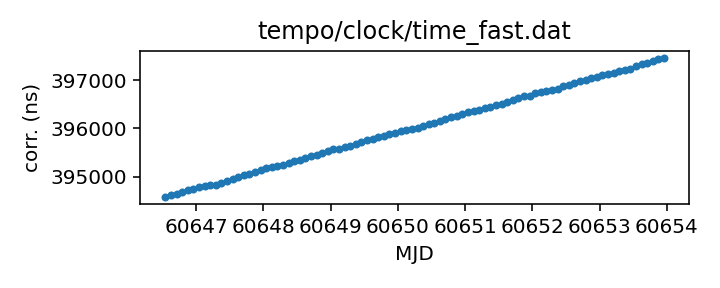
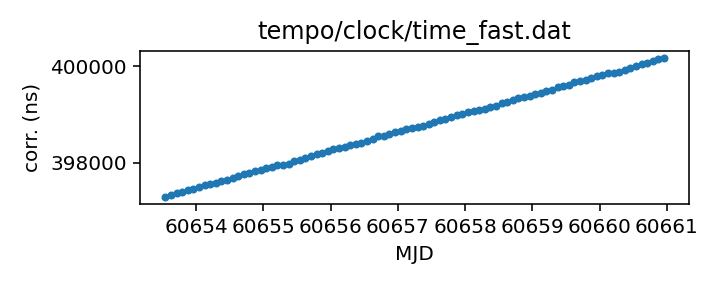
Routine gh-pages update from Github action Wed Dec 18 20:39:57 UTC 2024

diff --git a/status.md b/status.md
@@ -13,18 +13,18 @@ name of each clock file links to a page with more details.
 
 | Name | File | Corrections start | Corrections end | Last check date | Last check result 
 |:--- |:--- | --- | --- | --- |:--- 
-| [GPS to UTC](T2runtime/clock/gps2utc.clk.html) | `T2runtime/clock/gps2utc.clk` | 1993-01-01 MJD 48988.0 | 2024-11-30 MJD 60644.0 | 2024-12-17 | Unchanged 
-| [GPS to UTC (Combined Clock)](T2runtime/clock/gps2utc_cc.clk.html) | `T2runtime/clock/gps2utc_cc.clk` | 1993-01-01 MJD 48988.0 | 2024-11-30 MJD 60644.0 | 2024-12-17 | Unchanged 
-| [GPS to UTC (Corrected)](T2runtime/clock/gps2utc_c0p.clk.html) | `T2runtime/clock/gps2utc_c0p.clk` | 2010-12-29 MJD 55559.0 | 2024-11-30 MJD 60644.0 | 2024-12-17 | Unchanged 
-| [GBT](tempo/clock/time_gbt.dat.html) | `tempo/clock/time_gbt.dat` | 2000-12-31 MJD 51909.5 | 2024-05-18 MJD 60448.5 | 2024-12-17 | **Validation failed** 
+| [GPS to UTC](T2runtime/clock/gps2utc.clk.html) | `T2runtime/clock/gps2utc.clk` | 1993-01-01 MJD 48988.0 | 2024-11-30 MJD 60644.0 | 2024-12-18 | Unchanged 
+| [GPS to UTC (Combined Clock)](T2runtime/clock/gps2utc_cc.clk.html) | `T2runtime/clock/gps2utc_cc.clk` | 1993-01-01 MJD 48988.0 | 2024-11-30 MJD 60644.0 | 2024-12-18 | Unchanged 
+| [GPS to UTC (Corrected)](T2runtime/clock/gps2utc_c0p.clk.html) | `T2runtime/clock/gps2utc_c0p.clk` | 2010-12-29 MJD 55559.0 | 2024-11-30 MJD 60644.0 | 2024-12-18 | Unchanged 
+| [GBT](tempo/clock/time_gbt.dat.html) | `tempo/clock/time_gbt.dat` | 2000-12-31 MJD 51909.5 | 2024-05-18 MJD 60448.5 | 2024-12-18 | **Validation failed** 
 | [GBT (TEMPO2 converted from TEMPO)](T2runtime/clock/gbt2gps.clk.html) | `T2runtime/clock/gbt2gps.clk` | 2000-12-31 MJD 51909.5 | 2024-05-18 MJD 60448.5 | 2024-05-19 | Updated 
-| [Jodrell Bank](T2runtime/clock/jb2gps.clk.html) | `T2runtime/clock/jb2gps.clk` | 2006-10-13 MJD 54021.4 | 2024-11-07 MJD 60621.0 | 2024-12-11 | Unchanged 
-| [Jodrell Bank Roach](T2runtime/clock/jbroach2jb.clk.html) | `T2runtime/clock/jbroach2jb.clk` | 2006-10-13 MJD 54021.4 | 2018-03-20 MJD 58197.6 | 2024-12-11 | Unchanged 
-| [Jodrell Bank DFB](T2runtime/clock/jbdfb2jb.clk.html) | `T2runtime/clock/jbdfb2jb.clk` | 2006-10-13 MJD 54021.4 | 2017-05-11 MJD 57884.0 | 2024-12-11 | Unchanged 
-| [Meerkat (observatory)](T2runtime/clock/mk2utc_observatory.clk.html) | `T2runtime/clock/mk2utc_observatory.clk` | 2019-01-01 MJD 58484.0 | 2024-04-24 MJD 60425.0 | 2024-12-11 | **Failed to download** 
-| [Leap seconds](tempo/clock/leap.sec.html) | `tempo/clock/leap.sec` | 1972-07-01 MJD 41499.0 | 2017-01-01 MJD 57754.0 | 2024-12-17 | Unchanged 
-| [UT1 table](tempo/clock/ut1.dat.html) | `tempo/clock/ut1.dat` | 1973-01-02 MJD 41684.0 | 2025-12-20 MJD 61029.0 | 2024-12-17 | Unchanged 
-| [UT1 table](T2runtime/clock/ut1.dat.html) | `T2runtime/clock/ut1.dat` | 1973-01-02 MJD 41684.0 | 2025-12-20 MJD 61029.0 | 2024-12-17 | Unchanged 
+| [Jodrell Bank](T2runtime/clock/jb2gps.clk.html) | `T2runtime/clock/jb2gps.clk` | 2006-10-13 MJD 54021.4 | 2024-11-07 MJD 60621.0 | 2024-12-18 | Unchanged 
+| [Jodrell Bank Roach](T2runtime/clock/jbroach2jb.clk.html) | `T2runtime/clock/jbroach2jb.clk` | 2006-10-13 MJD 54021.4 | 2018-03-20 MJD 58197.6 | 2024-12-18 | Unchanged 
+| [Jodrell Bank DFB](T2runtime/clock/jbdfb2jb.clk.html) | `T2runtime/clock/jbdfb2jb.clk` | 2006-10-13 MJD 54021.4 | 2017-05-11 MJD 57884.0 | 2024-12-18 | Unchanged 
+| [Meerkat (observatory)](T2runtime/clock/mk2utc_observatory.clk.html) | `T2runtime/clock/mk2utc_observatory.clk` | 2019-01-01 MJD 58484.0 | 2024-04-24 MJD 60425.0 | 2024-12-18 | **Failed to download** 
+| [Leap seconds](tempo/clock/leap.sec.html) | `tempo/clock/leap.sec` | 1972-07-01 MJD 41499.0 | 2017-01-01 MJD 57754.0 | 2024-12-18 | Unchanged 
+| [UT1 table](tempo/clock/ut1.dat.html) | `tempo/clock/ut1.dat` | 1973-01-02 MJD 41684.0 | 2025-12-20 MJD 61029.0 | 2024-12-18 | Unchanged 
+| [UT1 table](T2runtime/clock/ut1.dat.html) | `T2runtime/clock/ut1.dat` | 1973-01-02 MJD 41684.0 | 2025-12-20 MJD 61029.0 | 2024-12-18 | Unchanged 
 
 
 
@@ -67,26 +67,26 @@ name of each clock file links to a page with more details.
 
 | Name | File | Corrections start | Corrections end | Last check date | Last check result 
 |:--- |:--- | --- | --- | --- |:--- 
-| [GPS to UTC (TEMPO2)](T2runtime/clock/gps2utc_tempo2.clk.html) | `T2runtime/clock/gps2utc_tempo2.clk` | 1996-03-27 MJD 50169.0 | 2022-10-27 MJD 59879.0 | 2024-12-11 | **Failed to download** 
-| [GBT (TEMPO2)](T2runtime/clock/gbt2gps_tempo2.clk.html) | `T2runtime/clock/gbt2gps_tempo2.clk` | 2000-12-31 MJD 51909.5 | 2020-02-25 MJD 58904.5 | 2024-12-11 | Unchanged 
-| [Jodrell Bank (TEMPO)](tempo/clock/time_jb.dat.html) | `tempo/clock/time_jb.dat` | 2006-10-13 MJD 54021.4 | 2019-05-13 MJD 58616.2 | 2024-12-11 | Unchanged 
-| [VLA](tempo/clock/time_vla.dat.html) | `tempo/clock/time_vla.dat` | 1990-10-27 MJD 48191.2 | 2021-03-07 MJD 59280.5 | 2024-12-11 | Unchanged 
-| [VLA (TEMPO2)](T2runtime/clock/vla2gps.clk.html) | `T2runtime/clock/vla2gps.clk` | 2015-02-01 MJD 57054.6 | 2021-03-07 MJD 59280.5 | 2024-12-11 | Unchanged 
-| [VLA to NIST](T2runtime/clock/vla2nist.clk.html) | `T2runtime/clock/vla2nist.clk` | 1990-10-27 MJD 48191.2 | 1993-11-13 MJD 49304.0 | 2024-12-11 | Unchanged 
-| [FAST](tempo/clock/time_fast.dat.html) | `tempo/clock/time_fast.dat` | 2017-07-27 MJD 57961.0 | 2024-12-09 MJD 60654.0 | 2024-12-11 | Updated 
-| [WSRT](T2runtime/clock/wsrt2gps.clk.html) | `T2runtime/clock/wsrt2gps.clk` | 1999-01-01 MJD 51179.5 | 2015-06-29 MJD 57202.1 | 2024-12-11 | Unchanged 
-| [WSRT (TEMPO)](tempo/clock/time_wsrt.dat.html) | `tempo/clock/time_wsrt.dat` | 1987-07-24 MJD 47000.0 | 2007-12-24 MJD 54458.0 | 2024-12-11 | **Validation failed** 
-| [Parkes](T2runtime/clock/pks2gps.clk.html) | `T2runtime/clock/pks2gps.clk` | 1858-11-17 MJD 0.0 | 2024-11-30 MJD 60644.1 | 2024-12-11 | Updated 
-| [Parkes (TEMPO)](tempo/clock/time_pks.dat.html) | `tempo/clock/time_pks.dat` | 1979-05-07 MJD 44000.0 | 2011-07-03 MJD 55745.8 | 2024-12-11 | **Validation failed** 
-| [SRT](T2runtime/clock/srt2gps.clk.html) | `T2runtime/clock/srt2gps.clk` | 2013-03-20 MJD 56371.0 | 2019-12-11 MJD 58828.0 | 2024-12-11 | Unchanged 
-| [Effelsberg](T2runtime/clock/eff2gps.clk.html) | `T2runtime/clock/eff2gps.clk` | 1993-11-29 MJD 49320.0 | 2015-06-22 MJD 57195.5 | 2024-12-11 | Unchanged 
-| [Effelsberg Asterix/PSRix](T2runtime/clock/effix2gps.clk.html) | `T2runtime/clock/effix2gps.clk` | 2011-01-01 MJD 55562.5 | 2021-03-21 MJD 59294.5 | 2024-12-11 | Unchanged 
-| [LEAP](T2runtime/clock/leap2effix.clk.html) | `T2runtime/clock/leap2effix.clk` | 2012-10-29 MJD 56230.0 | 2014-03-04 MJD 56720.0 | 2024-12-11 | Unchanged 
-| [NUPPI](tempo/clock/time_nuppi.dat.html) | `tempo/clock/time_nuppi.dat` | 2005-03-07 MJD 53436.0 | 2015-11-08 MJD 57334.6 | 2024-12-11 | Unchanged 
-| [Meerkat (TEMPO2)](T2runtime/clock/mk2utc.clk.html) | `T2runtime/clock/mk2utc.clk` | 2019-01-01 MJD 58484.0 | 2024-09-23 MJD 60576.9 | 2024-12-11 | Unchanged 
-| [MOST](T2runtime/clock/mo2gps.clk.html) | `T2runtime/clock/mo2gps.clk` | 2003-12-27 MJD 53000.0 | 2018-09-06 MJD 58367.0 | 2024-12-11 | Unchanged 
-| [Nancay to obspm](T2runtime/clock/ncyobs2obspm.clk.html) | `T2runtime/clock/ncyobs2obspm.clk` | 1988-05-18 MJD 47299.6 | 2023-10-27 MJD 60244.0 | 2024-12-11 | Unchanged 
-| [obspm](T2runtime/clock/obspm2gps.clk.html) | `T2runtime/clock/obspm2gps.clk` | 2003-12-01 MJD 52974.0 | 2023-10-27 MJD 60244.0 | 2024-12-11 | Unchanged 
+| [GPS to UTC (TEMPO2)](T2runtime/clock/gps2utc_tempo2.clk.html) | `T2runtime/clock/gps2utc_tempo2.clk` | 1996-03-27 MJD 50169.0 | 2022-10-27 MJD 59879.0 | 2024-12-18 | **Failed to download** 
+| [GBT (TEMPO2)](T2runtime/clock/gbt2gps_tempo2.clk.html) | `T2runtime/clock/gbt2gps_tempo2.clk` | 2000-12-31 MJD 51909.5 | 2020-02-25 MJD 58904.5 | 2024-12-18 | Unchanged 
+| [Jodrell Bank (TEMPO)](tempo/clock/time_jb.dat.html) | `tempo/clock/time_jb.dat` | 2006-10-13 MJD 54021.4 | 2019-05-13 MJD 58616.2 | 2024-12-18 | Unchanged 
+| [VLA](tempo/clock/time_vla.dat.html) | `tempo/clock/time_vla.dat` | 1990-10-27 MJD 48191.2 | 2021-03-07 MJD 59280.5 | 2024-12-18 | Unchanged 
+| [VLA (TEMPO2)](T2runtime/clock/vla2gps.clk.html) | `T2runtime/clock/vla2gps.clk` | 2015-02-01 MJD 57054.6 | 2021-03-07 MJD 59280.5 | 2024-12-18 | Unchanged 
+| [VLA to NIST](T2runtime/clock/vla2nist.clk.html) | `T2runtime/clock/vla2nist.clk` | 1990-10-27 MJD 48191.2 | 1993-11-13 MJD 49304.0 | 2024-12-18 | Unchanged 
+| [FAST](tempo/clock/time_fast.dat.html) | `tempo/clock/time_fast.dat` | 2017-07-27 MJD 57961.0 | 2024-12-16 MJD 60661.0 | 2024-12-18 | Updated 
+| [WSRT](T2runtime/clock/wsrt2gps.clk.html) | `T2runtime/clock/wsrt2gps.clk` | 1999-01-01 MJD 51179.5 | 2015-06-29 MJD 57202.1 | 2024-12-18 | Unchanged 
+| [WSRT (TEMPO)](tempo/clock/time_wsrt.dat.html) | `tempo/clock/time_wsrt.dat` | 1987-07-24 MJD 47000.0 | 2007-12-24 MJD 54458.0 | 2024-12-18 | **Validation failed** 
+| [Parkes](T2runtime/clock/pks2gps.clk.html) | `T2runtime/clock/pks2gps.clk` | 1858-11-17 MJD 0.0 | 2024-11-30 MJD 60644.1 | 2024-12-18 | Unchanged 
+| [Parkes (TEMPO)](tempo/clock/time_pks.dat.html) | `tempo/clock/time_pks.dat` | 1979-05-07 MJD 44000.0 | 2011-07-03 MJD 55745.8 | 2024-12-18 | **Validation failed** 
+| [SRT](T2runtime/clock/srt2gps.clk.html) | `T2runtime/clock/srt2gps.clk` | 2013-03-20 MJD 56371.0 | 2019-12-11 MJD 58828.0 | 2024-12-18 | Unchanged 
+| [Effelsberg](T2runtime/clock/eff2gps.clk.html) | `T2runtime/clock/eff2gps.clk` | 1993-11-29 MJD 49320.0 | 2015-06-22 MJD 57195.5 | 2024-12-18 | Unchanged 
+| [Effelsberg Asterix/PSRix](T2runtime/clock/effix2gps.clk.html) | `T2runtime/clock/effix2gps.clk` | 2011-01-01 MJD 55562.5 | 2021-03-21 MJD 59294.5 | 2024-12-18 | Unchanged 
+| [LEAP](T2runtime/clock/leap2effix.clk.html) | `T2runtime/clock/leap2effix.clk` | 2012-10-29 MJD 56230.0 | 2014-03-04 MJD 56720.0 | 2024-12-18 | Unchanged 
+| [NUPPI](tempo/clock/time_nuppi.dat.html) | `tempo/clock/time_nuppi.dat` | 2005-03-07 MJD 53436.0 | 2015-11-08 MJD 57334.6 | 2024-12-18 | Unchanged 
+| [Meerkat (TEMPO2)](T2runtime/clock/mk2utc.clk.html) | `T2runtime/clock/mk2utc.clk` | 2019-01-01 MJD 58484.0 | 2024-09-23 MJD 60576.9 | 2024-12-18 | Unchanged 
+| [MOST](T2runtime/clock/mo2gps.clk.html) | `T2runtime/clock/mo2gps.clk` | 2003-12-27 MJD 53000.0 | 2018-09-06 MJD 58367.0 | 2024-12-18 | Unchanged 
+| [Nancay to obspm](T2runtime/clock/ncyobs2obspm.clk.html) | `T2runtime/clock/ncyobs2obspm.clk` | 1988-05-18 MJD 47299.6 | 2023-10-27 MJD 60244.0 | 2024-12-18 | Unchanged 
+| [obspm](T2runtime/clock/obspm2gps.clk.html) | `T2runtime/clock/obspm2gps.clk` | 2003-12-01 MJD 52974.0 | 2023-10-27 MJD 60244.0 | 2024-12-18 | Unchanged 
 
 
 ### Further information:

diff --git a/tempo/clock/time_pks.dat.md b/tempo/clock/time_pks.dat.md
@@ -20,12 +20,11 @@ telescopes in the same file, distinguished only by observatory code.
 | Clock file start | 1979-05-07 MJD 44000.0 |
 | Clock file end | 2011-07-03 MJD 55745.8 |
 | Update interval (days) | 7 |
-| Last update attempt | 2024-12-11 |
+| Last update attempt | 2024-12-18 |
 | Last update result | Validation failed |
 
 Log entries from the last few update attempts:
 ```
-2024-08-30 20:32:33.550 - Validation failed: Unable to read new version of tempo/clock/time_pks.dat: Clock file /tmp/astropy-download-1806-7nmpd07j appears to be out of order: 49959.0 > 49958.0
 2024-09-06 20:31:32.232 - Validation failed: Unable to read new version of tempo/clock/time_pks.dat: Clock file /tmp/astropy-download-1810-y5xp7me4 appears to be out of order: 49959.0 > 49958.0
 2024-09-13 20:32:08.063 - Validation failed: Unable to read new version of tempo/clock/time_pks.dat: Clock file /tmp/astropy-download-1899-ep23bl8p appears to be out of order: 49959.0 > 49958.0
 2024-09-20 20:33:31.784 - Validation failed: Unable to read new version of tempo/clock/time_pks.dat: Clock file /tmp/astropy-download-1893-m35dbe__ appears to be out of order: 49959.0 > 49958.0
@@ -35,6 +34,7 @@ Log entries from the last few update attempts:
 2024-11-27 20:39:55.006 - Validation failed: Unable to read new version of tempo/clock/time_pks.dat: Clock file /tmp/astropy-download-2172-0awx7c85 appears to be out of order: 49959.0 > 49958.0
 2024-12-04 20:40:28.450 - Validation failed: Unable to read new version of tempo/clock/time_pks.dat: Clock file /tmp/astropy-download-2139-qynhkydv appears to be out of order: 49959.0 > 49958.0
 2024-12-11 20:40:40.481 - Validation failed: Unable to read new version of tempo/clock/time_pks.dat: Clock file /tmp/astropy-download-2157-57ooi6g4 appears to be out of order: 49959.0 > 49958.0
+2024-12-18 20:39:24.379 - Validation failed: Unable to read new version of tempo/clock/time_pks.dat: Clock file /tmp/astropy-download-2274-q5yfgh14 appears to be out of order: 49959.0 > 49958.0
 ```
 [Full log](https://raw.githubusercontent.com/ipta/pulsar-clock-corrections/main/log/tempo/clock/time_pks.dat.log)
 

diff --git a/tempo/clock/time_wsrt.dat.md b/tempo/clock/time_wsrt.dat.md
@@ -20,12 +20,11 @@ should be the same information.
 | Clock file start | 1987-07-24 MJD 47000.0 |
 | Clock file end | 2007-12-24 MJD 54458.0 |
 | Update interval (days) | 7 |
-| Last update attempt | 2024-12-11 |
+| Last update attempt | 2024-12-18 |
 | Last update result | Validation failed |
 
 Log entries from the last few update attempts:
 ```
-2024-08-30 20:32:28.816 - Validation failed: Unable to read new version of tempo/clock/time_wsrt.dat: Clock file /tmp/astropy-download-1806-v9_cze2w appears to be out of order: 53000.05 > 53000.0
 2024-09-06 20:31:25.517 - Validation failed: Unable to read new version of tempo/clock/time_wsrt.dat: Clock file /tmp/astropy-download-1810-r1trxeay appears to be out of order: 53000.05 > 53000.0
 2024-09-13 20:32:03.201 - Validation failed: Unable to read new version of tempo/clock/time_wsrt.dat: Clock file /tmp/astropy-download-1899-5cycg5di appears to be out of order: 53000.05 > 53000.0
 2024-09-20 20:33:26.812 - Validation failed: Unable to read new version of tempo/clock/time_wsrt.dat: Clock file /tmp/astropy-download-1893-omoncdps appears to be out of order: 53000.05 > 53000.0
@@ -35,6 +34,7 @@ Log entries from the last few update attempts:
 2024-11-27 20:39:50.095 - Validation failed: Unable to read new version of tempo/clock/time_wsrt.dat: Clock file /tmp/astropy-download-2172-cdd9mcj0 appears to be out of order: 53000.05 > 53000.0
 2024-12-04 20:40:23.375 - Validation failed: Unable to read new version of tempo/clock/time_wsrt.dat: Clock file /tmp/astropy-download-2139-0s_r4fkf appears to be out of order: 53000.05 > 53000.0
 2024-12-11 20:40:37.440 - Validation failed: Unable to read new version of tempo/clock/time_wsrt.dat: Clock file /tmp/astropy-download-2157-h_fmugiu appears to be out of order: 53000.05 > 53000.0
+2024-12-18 20:39:20.524 - Validation failed: Unable to read new version of tempo/clock/time_wsrt.dat: Clock file /tmp/astropy-download-2274-sevzn3la appears to be out of order: 53000.05 > 53000.0
 ```
 [Full log](https://raw.githubusercontent.com/ipta/pulsar-clock-corrections/main/log/tempo/clock/time_wsrt.dat.log)
 

diff --git a/tempo/clock/time_gbt.dat.md b/tempo/clock/time_gbt.dat.md
@@ -33,12 +33,11 @@ If questions arise, contact Ryan S. Lynch <rlynch@nrao.edu>.
 | Clock file start | 2000-12-31 MJD 51909.5 |
 | Clock file end | 2024-05-18 MJD 60448.5 |
 | Update interval (days) | 1 |
-| Last update attempt | 2024-12-17 |
+| Last update attempt | 2024-12-18 |
 | Last update result | Validation failed |
 
 Log entries from the last few update attempts:
 ```
-2024-12-08 20:37:16.086 - Validation failed: New version of tempo/clock/time_gbt.dat clock corrections differ from old version where they overlap in 11 places
 2024-12-09 20:41:06.981 - Validation failed: New version of tempo/clock/time_gbt.dat clock corrections differ from old version where they overlap in 11 places
 2024-12-10 20:40:35.571 - Validation failed: New version of tempo/clock/time_gbt.dat clock corrections differ from old version where they overlap in 11 places
 2024-12-11 20:40:32.214 - Validation failed: New version of tempo/clock/time_gbt.dat clock corrections differ from old version where they overlap in 11 places
@@ -48,6 +47,7 @@ Log entries from the last few update attempts:
 2024-12-15 20:37:18.255 - Validation failed: New version of tempo/clock/time_gbt.dat clock corrections differ from old version where they overlap in 11 places
 2024-12-16 20:40:28.995 - Validation failed: New version of tempo/clock/time_gbt.dat clock corrections differ from old version where they overlap in 11 places
 2024-12-17 20:37:39.991 - Validation failed: New version of tempo/clock/time_gbt.dat clock corrections differ from old version where they overlap in 11 places
+2024-12-18 20:39:07.990 - Validation failed: New version of tempo/clock/time_gbt.dat clock corrections differ from old version where they overlap in 11 places
 ```
 [Full log](https://raw.githubusercontent.com/ipta/pulsar-clock-corrections/main/log/tempo/clock/time_gbt.dat.log)
 

diff --git a/T2runtime/clock/mk2utc_observatory.clk.md b/T2runtime/clock/mk2utc_observatory.clk.md
@@ -21,12 +21,11 @@ If questions arise, contact Ryan Shannon <rshannon@swin.edu.au>
 | Clock file start | 2019-01-01 MJD 58484.0 |
 | Clock file end | 2024-04-24 MJD 60425.0 |
 | Update interval (days) | 7 |
-| Last update attempt | 2024-12-11 |
+| Last update attempt | 2024-12-18 |
 | Last update result | Failed to download |
 
 Log entries from the last few update attempts:
 ```
-2024-08-30 20:32:35.880 - Failed to download: HTTP Error 403: Forbidden
 2024-09-06 20:31:43.821 - Failed to download: The read operation timed out
 2024-09-13 20:32:10.289 - Failed to download: HTTP Error 403: Forbidden
 2024-09-20 20:33:35.218 - Validation failed: Unable to read new version of T2runtime/clock/mk2utc_observatory.clk: Header line must start with # and contain two time scales: 'The SARAO archive is currently down. We apologise for the inconvenience. We will remove this alert once the archive is available again.\n'
@@ -36,6 +35,7 @@ Log entries from the last few update attempts:
 2024-11-27 20:39:59.127 - Failed to download: HTTP Error 403: Forbidden
 2024-12-04 20:40:30.649 - Failed to download: HTTP Error 403: Forbidden
 2024-12-11 20:40:46.813 - Failed to download: HTTP Error 403: Forbidden
+2024-12-18 20:39:27.691 - Failed to download: HTTP Error 403: Forbidden
 ```
 [Full log](https://raw.githubusercontent.com/ipta/pulsar-clock-corrections/main/log/T2runtime/clock/mk2utc_observatory.clk.log)
 

diff --git a/T2runtime/clock/gps2utc_tempo2.clk.md b/T2runtime/clock/gps2utc_tempo2.clk.md
@@ -27,12 +27,11 @@ are from the column C0').
 | Clock file start | 1996-03-27 MJD 50169.0 |
 | Clock file end | 2022-10-27 MJD 59879.0 |
 | Update interval (days) | 7 |
-| Last update attempt | 2024-12-11 |
+| Last update attempt | 2024-12-18 |
 | Last update result | Failed to download |
 
 Log entries from the last few update attempts:
 ```
-2024-08-30 20:32:01.718 - Failed to download: HTTP Error 404: Not Found
 2024-09-06 20:30:57.247 - Failed to download: HTTP Error 404: Not Found
 2024-09-13 20:31:35.404 - Failed to download: HTTP Error 404: Not Found
 2024-09-20 20:32:57.970 - Failed to download: HTTP Error 404: Not Found
@@ -42,6 +41,7 @@ Log entries from the last few update attempts:
 2024-11-27 20:36:13.070 - Failed to download: HTTP Error 404: Not Found
 2024-12-04 20:36:44.750 - Failed to download: HTTP Error 404: Not Found
 2024-12-11 20:36:46.203 - Failed to download: HTTP Error 404: Not Found
+2024-12-18 20:35:22.623 - Failed to download: HTTP Error 404: Not Found
 ```
 [Full log](https://raw.githubusercontent.com/ipta/pulsar-clock-corrections/main/log/T2runtime/clock/gps2utc_tempo2.clk.log)
 

diff --git a/tempo/clock/time_fast.dat.md b/tempo/clock/time_fast.dat.md
@@ -14,14 +14,13 @@ This file is pulled from the FAST_ClockFile repository.
 | Format | tempo |
 | Bogus last correction | False |
 | Clock file start | 2017-07-27 MJD 57961.0 |
-| Clock file end | 2024-12-09 MJD 60654.0 |
+| Clock file end | 2024-12-16 MJD 60661.0 |
 | Update interval (days) | 7 |
-| Last update attempt | 2024-12-11 |
+| Last update attempt | 2024-12-18 |
 | Last update result | Updated |
 
 Log entries from the last few update attempts:
 ```
-2024-08-30 20:32:28.415 - Updated
 2024-09-06 20:31:25.133 - Updated
 2024-09-13 20:32:02.724 - Updated
 2024-09-20 20:33:23.772 - Updated
@@ -31,6 +30,7 @@ Log entries from the last few update attempts:
 2024-11-27 20:39:49.767 - Updated
 2024-12-04 20:40:22.909 - Updated
 2024-12-11 20:40:36.767 - Updated
+2024-12-18 20:39:19.819 - Updated
 ```
 [Full log](https://raw.githubusercontent.com/ipta/pulsar-clock-corrections/main/log/tempo/clock/time_fast.dat.log)
 

diff --git a/T2runtime/clock/gps2utc_c0p.clk.md b/T2runtime/clock/gps2utc_c0p.clk.md
@@ -30,12 +30,11 @@ about the BIPM's published corrections, contact <tai@bipm.org>.
 | Clock file start | 2010-12-29 MJD 55559.0 |
 | Clock file end | 2024-11-30 MJD 60644.0 |
 | Update interval (days) | 1 |
-| Last update attempt | 2024-12-17 |
+| Last update attempt | 2024-12-18 |
 | Last update result | Unchanged |
 
 Log entries from the last few update attempts:
 ```
-2024-12-08 20:37:15.571 - Unchanged
 2024-12-09 20:41:06.663 - Unchanged
 2024-12-10 20:40:34.744 - Unchanged
 2024-12-11 20:40:31.476 - Unchanged
@@ -45,6 +44,7 @@ Log entries from the last few update attempts:
 2024-12-15 20:37:17.916 - Unchanged
 2024-12-16 20:40:27.983 - Unchanged
 2024-12-17 20:37:39.581 - Unchanged
+2024-12-18 20:39:07.251 - Unchanged
 ```
 [Full log](https://raw.githubusercontent.com/ipta/pulsar-clock-corrections/main/log/T2runtime/clock/gps2utc_c0p.clk.log)
 

diff --git a/T2runtime/clock/gps2utc_cc.clk.md b/T2runtime/clock/gps2utc_cc.clk.md
@@ -29,12 +29,11 @@ about the BIPM's published corrections, contact <tai@bipm.org>.
 | Clock file start | 1993-01-01 MJD 48988.0 |
 | Clock file end | 2024-11-30 MJD 60644.0 |
 | Update interval (days) | 1 |
-| Last update attempt | 2024-12-17 |
+| Last update attempt | 2024-12-18 |
 | Last update result | Unchanged |
 
 Log entries from the last few update attempts:
 ```
-2024-12-08 20:37:15.563 - Unchanged
 2024-12-09 20:41:06.655 - Unchanged
 2024-12-10 20:40:34.736 - Unchanged
 2024-12-11 20:40:31.468 - Unchanged
@@ -44,6 +43,7 @@ Log entries from the last few update attempts:
 2024-12-15 20:37:17.908 - Unchanged
 2024-12-16 20:40:27.975 - Unchanged
 2024-12-17 20:37:39.574 - Unchanged
+2024-12-18 20:39:07.243 - Unchanged
 ```
 [Full log](https://raw.githubusercontent.com/ipta/pulsar-clock-corrections/main/log/T2runtime/clock/gps2utc_cc.clk.log)
 

diff --git a/T2runtime/clock/gps2utc.clk.md b/T2runtime/clock/gps2utc.clk.md
@@ -32,12 +32,11 @@ about the BIPM's published corrections, contact <tai@bipm.org>.
 | Clock file start | 1993-01-01 MJD 48988.0 |
 | Clock file end | 2024-11-30 MJD 60644.0 |
 | Update interval (days) | 1 |
-| Last update attempt | 2024-12-17 |
+| Last update attempt | 2024-12-18 |
 | Last update result | Unchanged |
 
 Log entries from the last few update attempts:
 ```
-2024-12-08 20:37:15.540 - Unchanged
 2024-12-09 20:41:06.633 - Unchanged
 2024-12-10 20:40:34.714 - Unchanged
 2024-12-11 20:40:31.446 - Unchanged
@@ -47,6 +46,7 @@ Log entries from the last few update attempts:
 2024-12-15 20:37:17.886 - Unchanged
 2024-12-16 20:40:27.953 - Unchanged
 2024-12-17 20:37:39.551 - Unchanged
+2024-12-18 20:39:07.221 - Unchanged
 ```
 [Full log](https://raw.githubusercontent.com/ipta/pulsar-clock-corrections/main/log/T2runtime/clock/gps2utc.clk.log)
 

diff --git a/T2runtime/clock/ncyobs2obspm.clk.md b/T2runtime/clock/ncyobs2obspm.clk.md
@@ -22,12 +22,11 @@ thus here) can be expected to be somewhat up to date.
 | Clock file start | 1988-05-18 MJD 47299.6 |
 | Clock file end | 2023-10-27 MJD 60244.0 |
 | Update interval (days) | 7 |
-| Last update attempt | 2024-12-11 |
+| Last update attempt | 2024-12-18 |
 | Last update result | Unchanged |
 
 Log entries from the last few update attempts:
 ```
-2024-08-30 20:32:36.681 - Unchanged
 2024-09-06 20:31:44.610 - Unchanged
 2024-09-13 20:32:11.084 - Unchanged
 2024-09-20 20:33:36.050 - Unchanged
@@ -37,6 +36,7 @@ Log entries from the last few update attempts:
 2024-11-27 20:40:00.686 - Unchanged
 2024-12-04 20:40:31.702 - Unchanged
 2024-12-11 20:40:48.861 - Unchanged
+2024-12-18 20:39:29.775 - Unchanged
 ```
 [Full log](https://raw.githubusercontent.com/ipta/pulsar-clock-corrections/main/log/T2runtime/clock/ncyobs2obspm.clk.log)
 

diff --git a/T2runtime/clock/leap2effix.clk.md b/T2runtime/clock/leap2effix.clk.md
@@ -23,12 +23,11 @@ thus here) can be expected to be somewhat up to date.
 | Clock file start | 2012-10-29 MJD 56230.0 |
 | Clock file end | 2014-03-04 MJD 56720.0 |
 | Update interval (days) | 7 |
-| Last update attempt | 2024-12-11 |
+| Last update attempt | 2024-12-18 |
 | Last update result | Unchanged |
 
 Log entries from the last few update attempts:
 ```
-2024-08-30 20:32:34.174 - Unchanged
 2024-09-06 20:31:32.711 - Unchanged
 2024-09-13 20:32:08.731 - Unchanged
 2024-09-20 20:33:32.391 - Unchanged
@@ -38,6 +37,7 @@ Log entries from the last few update attempts:
 2024-11-27 20:39:55.586 - Unchanged
 2024-12-04 20:40:29.120 - Unchanged
 2024-12-11 20:40:42.328 - Unchanged
+2024-12-18 20:39:26.103 - Unchanged
 ```
 [Full log](https://raw.githubusercontent.com/ipta/pulsar-clock-corrections/main/log/T2runtime/clock/leap2effix.clk.log)
 
